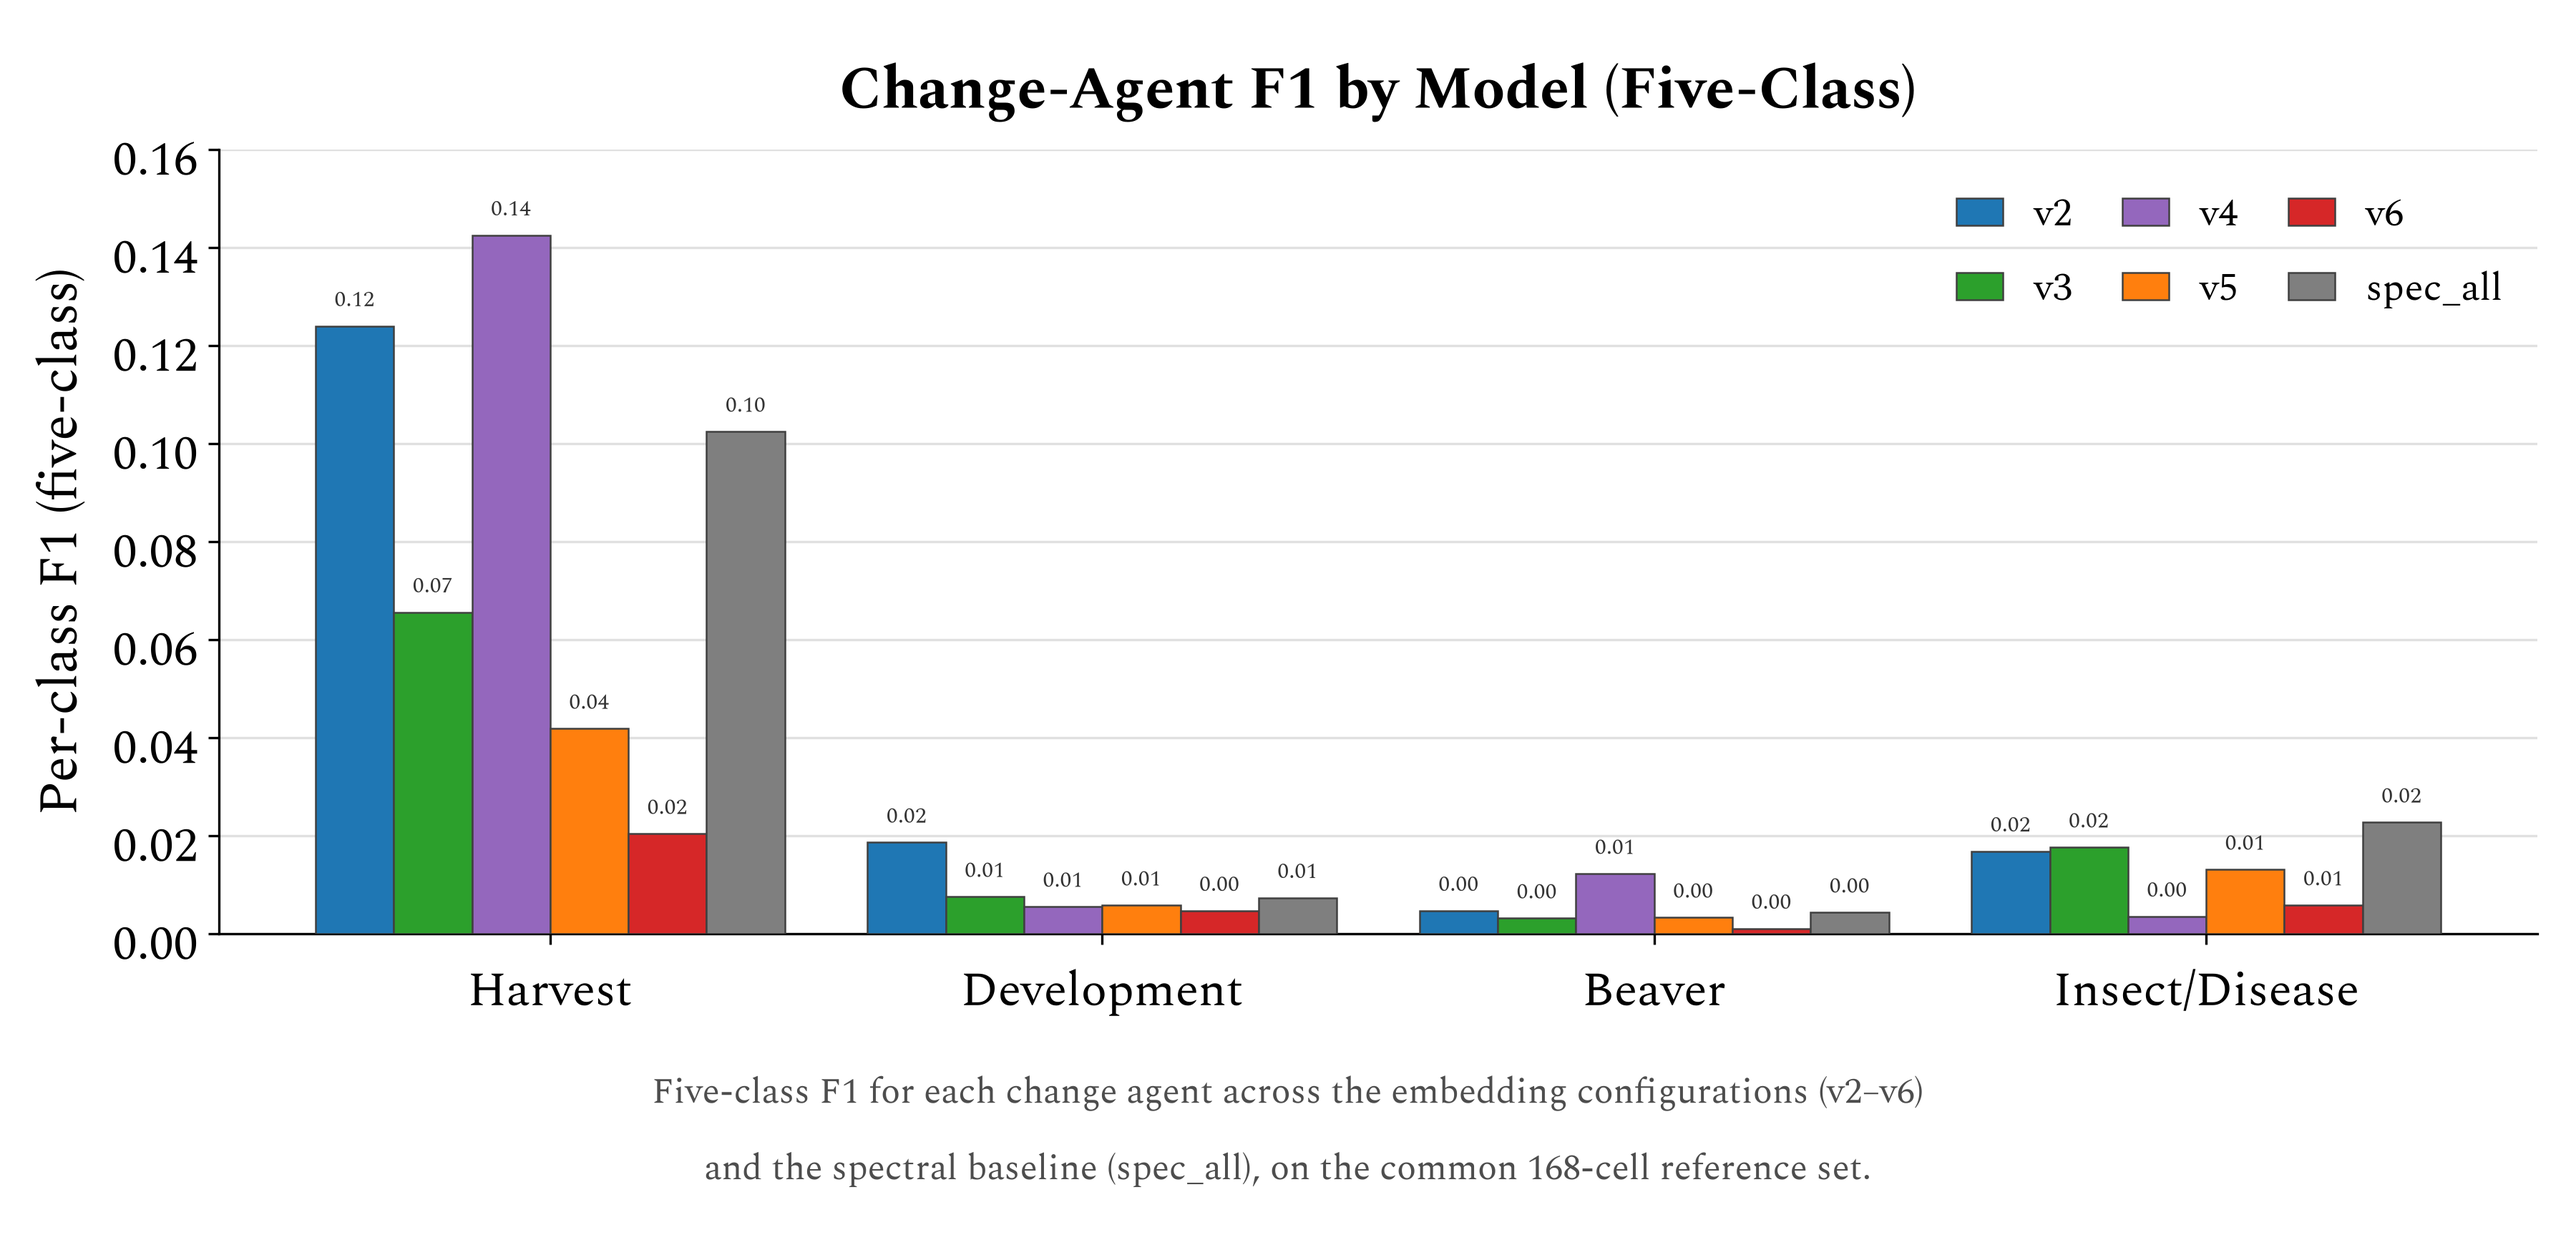
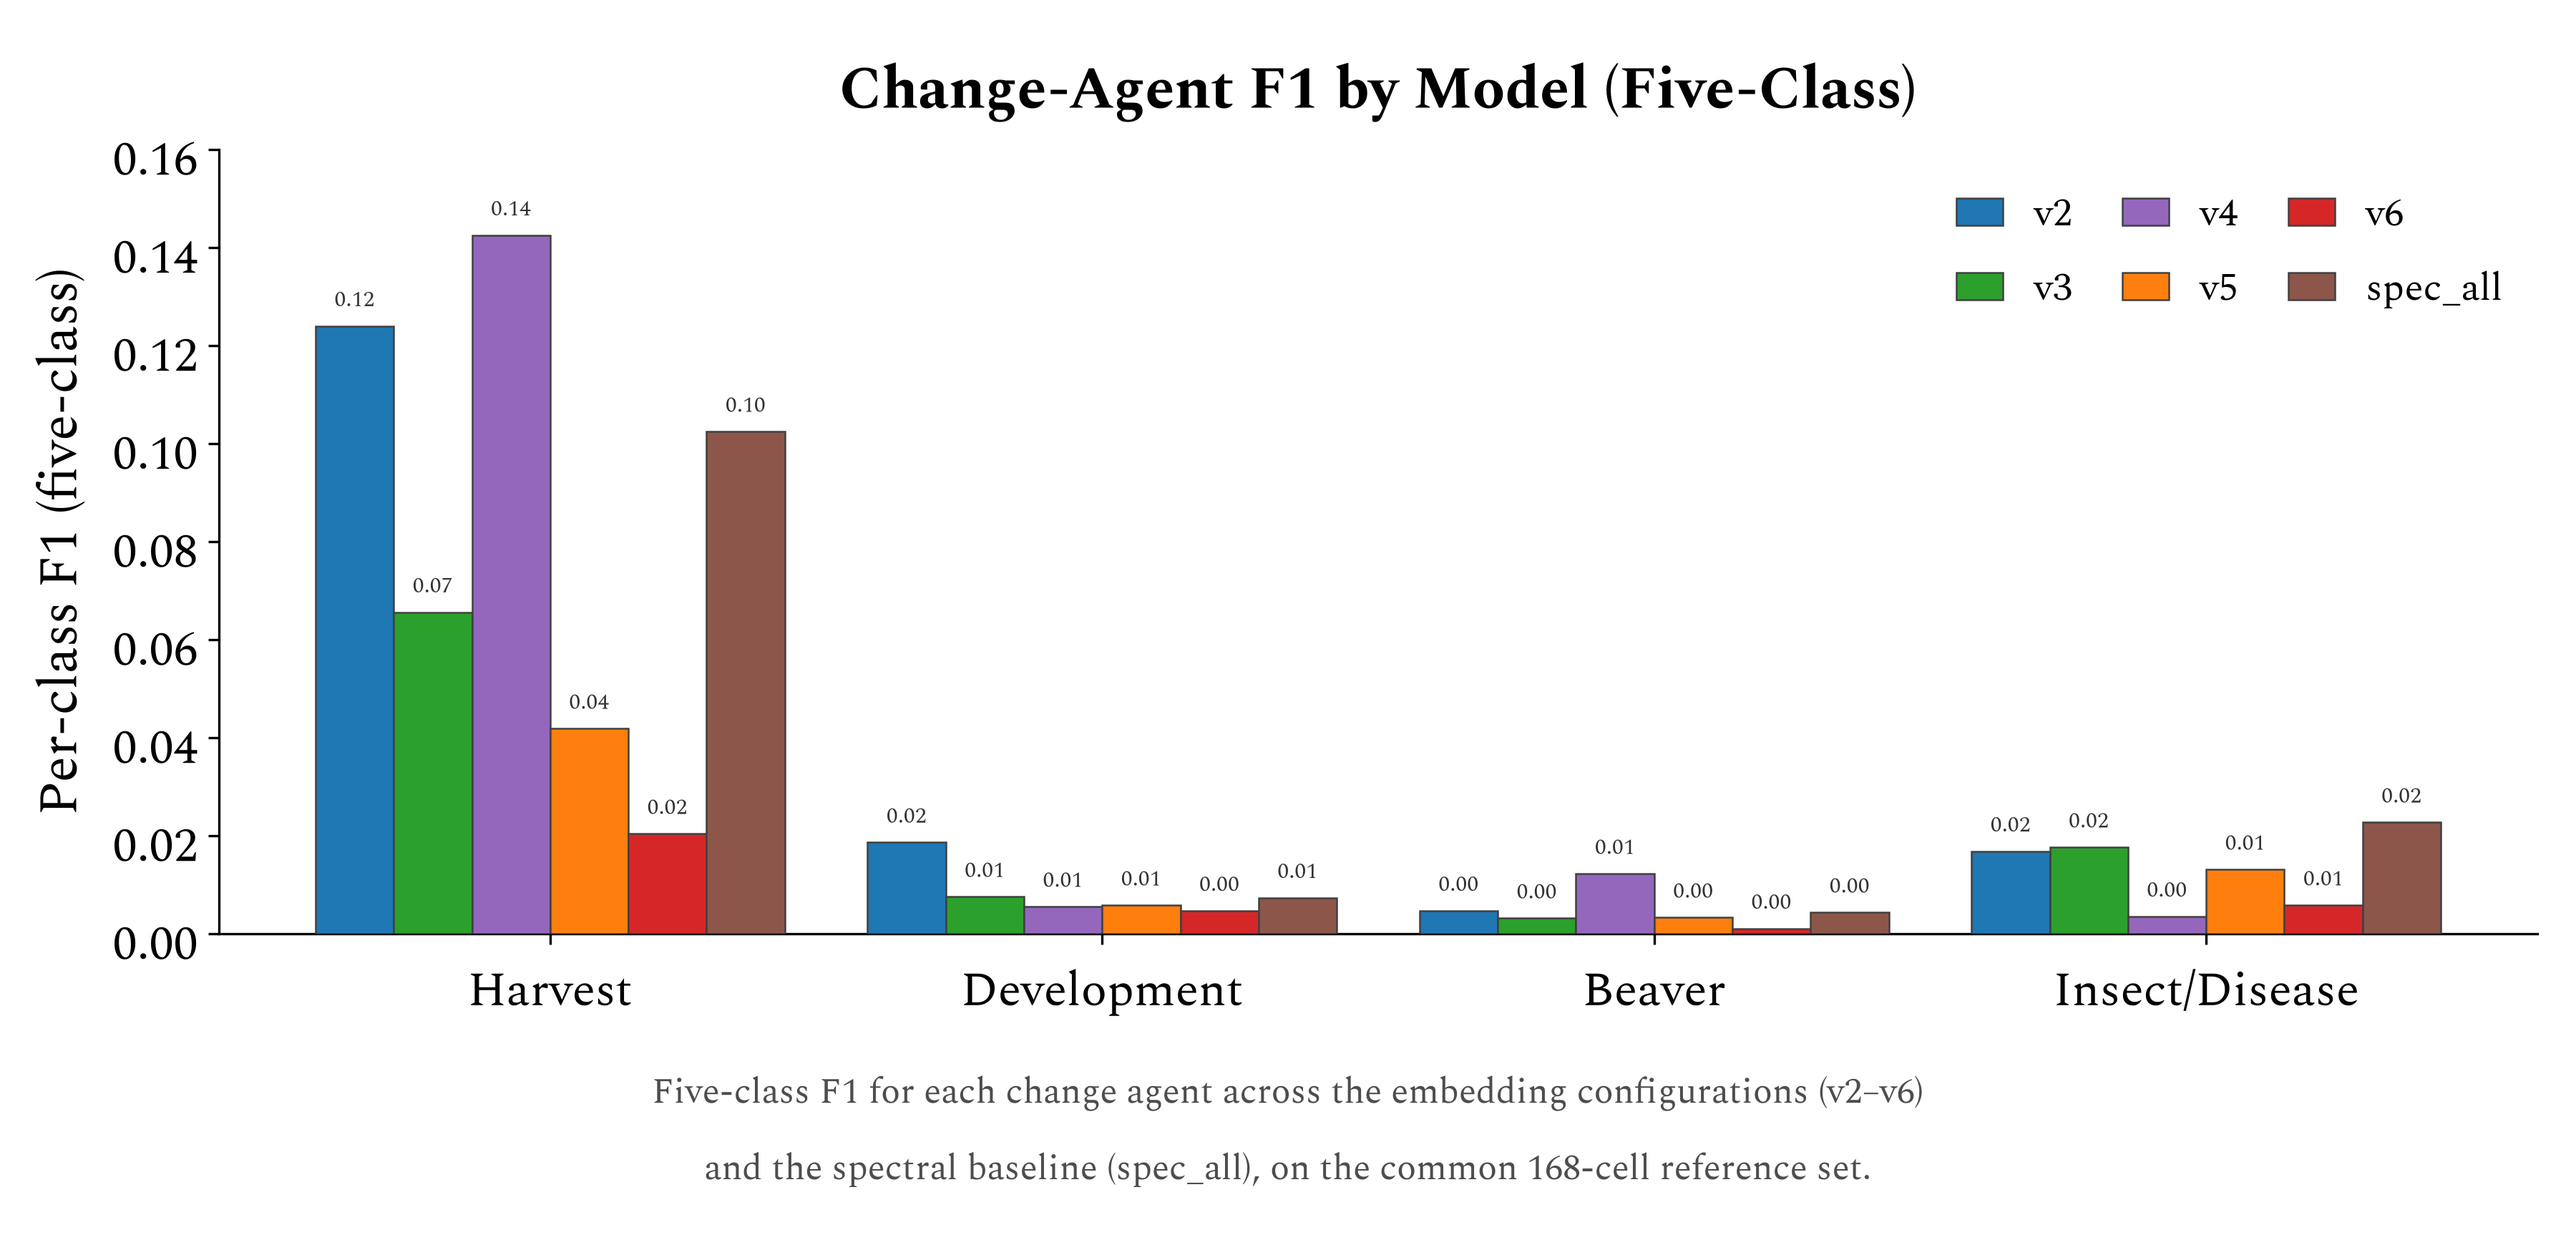
pres_18: drop background gridlines (keep axes); spec_all brown

diff --git a/presentation/scripts/pres_18_changeagent_f1_5class.py b/presentation/scripts/pres_18_changeagent_f1_5class.py
@@ -33,9 +33,9 @@ _spec.loader.exec_module(P14)
 
 SOURCES = P14.SOURCES                              # ["v2","v3","v4","v5","v6","spec_all"]
 AGENTS = [name for _, name in P14.CHANGE]          # Harvest, Development, Beaver, Insect/Disease
-# per-model colors (match pres_17): embeddings from the transfer-OA palette, spec_all a neutral grey
+# per-model colors (match pres_17): embeddings from the transfer-OA palette, spec_all brown (tab10 next)
 COLOR = {"v2": "#1f77b4", "v3": "#2ca02c", "v4": "#9467bd", "v5": "#ff7f0e", "v6": "#d62728",
-         "spec_all": "#7f7f7f"}
+         "spec_all": "#8c564b"}
 
 FIG_W, FIG_H = 12.0, 5.8
 BODY_FS, AXIS_FS, TICK_FS = 16, 18, 16
@@ -65,8 +65,7 @@ def draw(mat, stem, title, caption, y_full):
     ax.tick_params(axis="y", labelsize=TICK_FS)
     ax.set_ylim(0, ymax)
     ax.set_xlim(-0.6, len(AGENTS) - 0.4)
-    ax.grid(axis="y", color="0.88", lw=0.8, zorder=0)
-    ax.set_axisbelow(True)
+    ax.grid(False)
     for sp in ("top", "right"):
         ax.spines[sp].set_visible(False)
     ax.set_title(title, fontsize=AXIS_FS + 2, fontweight="bold", pad=14)
